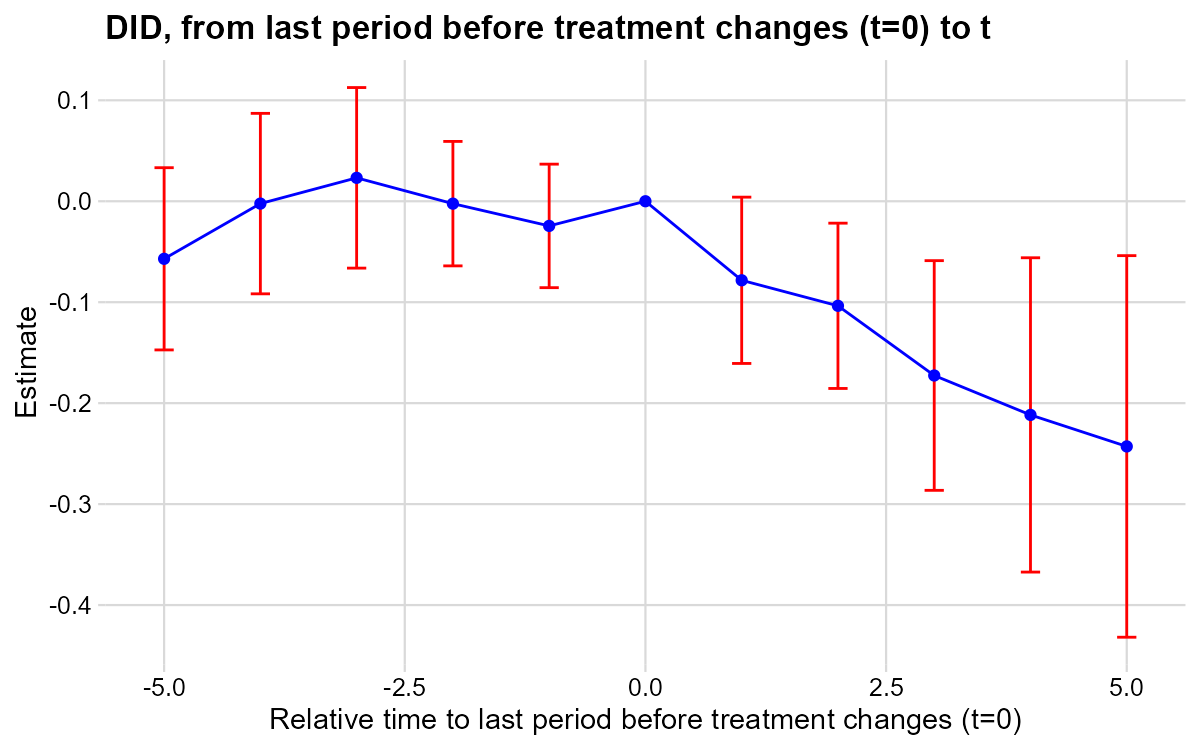
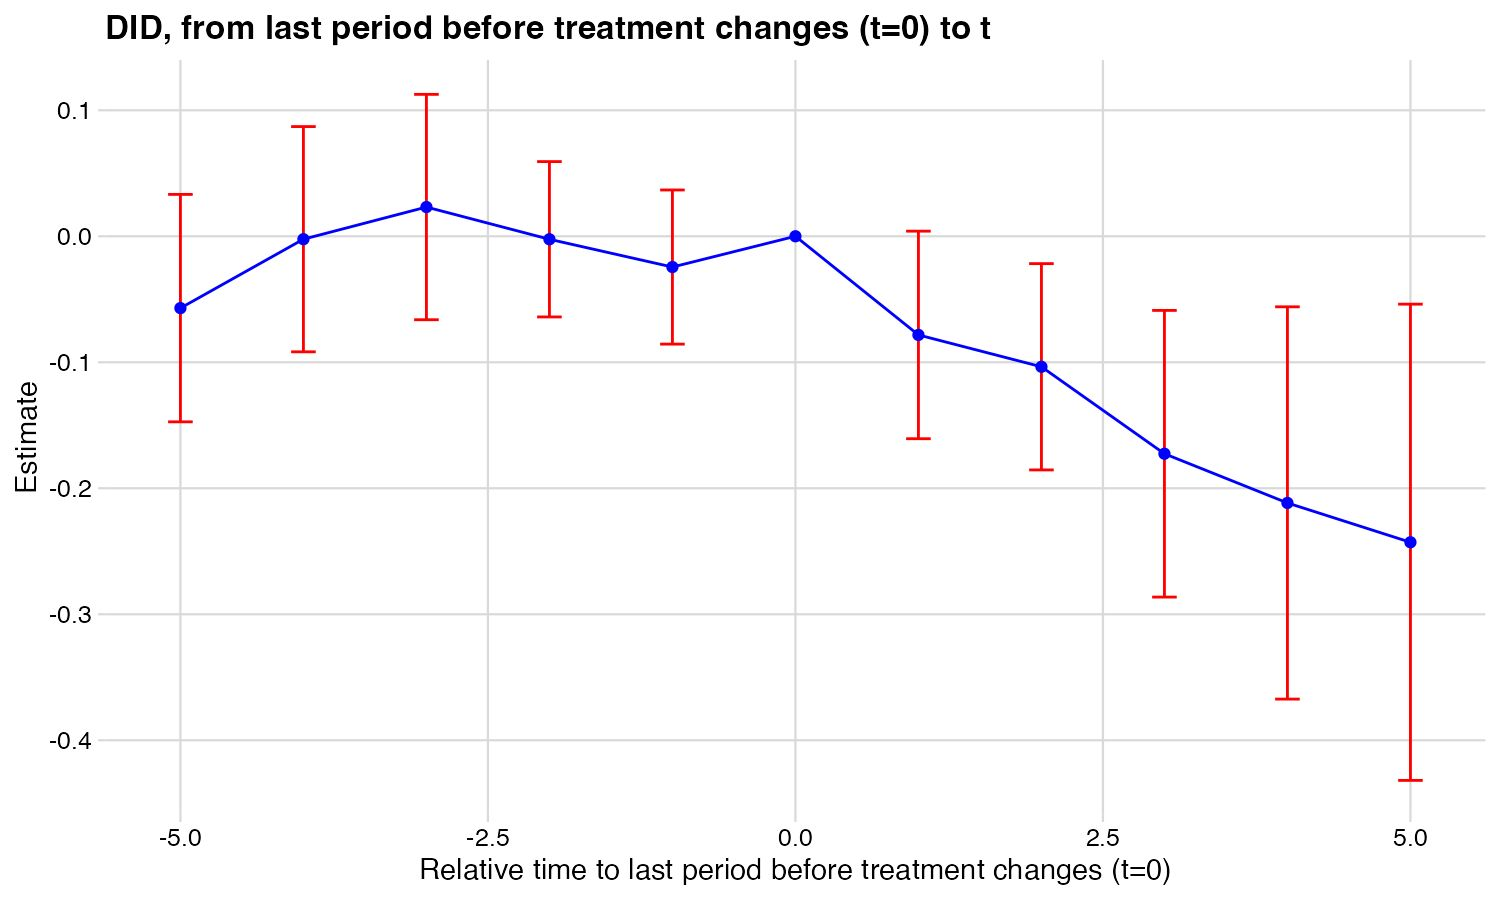
upadate did_book and did_book_dyn

diff --git a/did_applied_book/_book/chapters/ch10.html b/did_applied_book/_book/chapters/ch10.html
@@ -347,26 +347,32 @@ Test of joint nullity of the placebos : p-value = .72098785</code></pre>
 <pre><code>----------------------------------------------------------------------
        Estimation of treatment effects: Event-study effects
 ----------------------------------------------------------------------
-             Estimate SE      LB CI    UB CI   N   Switchers
-Effect_1     -0.09478 0.04318 -0.17940 -0.01015 234 28
-Effect_2     -0.13574 0.04795 -0.22971 -0.04176 209 28
-Effect_3     -0.21649 0.05893 -0.33199 -0.10099 187 28
-Effect_4     -0.23994 0.08079 -0.39828 -0.08160 176 28
-Effect_5     -0.28655 0.09958 -0.48173 -0.09137 138 21
+             Estimate SE      LB CI    UB CI    N   Switchers
+Effect_1     -0.07830 0.04202 -0.16067  0.00406 234 28
+Effect_2     -0.10358 0.04177 -0.18544 -0.02171 209 28
+Effect_3     -0.17260 0.05804 -0.28636 -0.05884 187 28
+Effect_4     -0.21166 0.07942 -0.36732 -0.05599 176 28
+Effect_5     -0.24287 0.09643 -0.43186 -0.05388 138 21
 
-Test of joint nullity of the effects  : p-value = 0.0135653
-Test of equality of the effects       : p-value = 0.1857077
+Test of joint nullity of the effects  : p-value = 0.0743
+Test of equality of the effects       : p-value = 0.3572
 
-  Av_tot_eff | -2.67436  0.77112  -4.18572  -1.16301  405  133
+  Av_tot_eff | -2.21745  0.72240  -3.63333  -0.80157  405  133
 Average number of time periods over which a treatment effect is accumulated: 2.8379
 
-Placebo_1    -0.03336 0.03225 -0.09658  0.02985 234 28
-Placebo_2    -0.01625 0.03383 -0.08254  0.05005 209 28
-Placebo_3     0.01252 0.04733 -0.08024  0.10529 187 28
-Placebo_4    -0.00646 0.04753 -0.09961  0.08669 176 28
-Placebo_5    -0.06084 0.04808 -0.15508  0.03340 106 18
+Placebo_1    -0.02443 0.03121 -0.08560  0.03675 234 28
+Placebo_2    -0.00238 0.03145 -0.06402  0.05926 209 28
+Placebo_3     0.02319 0.04563 -0.06624  0.11263 187 28
+Placebo_4    -0.00233 0.04560 -0.09171  0.08706 176 28
+Placebo_5    -0.05702 0.04605 -0.14727  0.03323 106 18
 
-Test of joint nullity of the placebos : p-value = 0.7209879</code></pre>
+Test of joint nullity of the placebos : p-value = 0.7775</code></pre>
+<div class="quarto-figure quarto-figure-center">
+<figure class="figure">
+<p><img src="../figures/ch09_fig3_medicaid_nonnorm_R.png" class="img-fluid figure-img"></p>
+<figcaption>Figure 10.1: Non-Normalized Effects of Prenatal Medicaid on LBW Rate</figcaption>
+</figure>
+</div>
 </div>
 <div id="tabset-2-3" class="tab-pane" role="tabpanel" aria-labelledby="tabset-2-3-tab">
 <div class="code-copy-outer-scaffold"><div class="sourceCode" id="cb11"><pre class="sourceCode python code-with-copy"><code class="sourceCode python"><span id="cb11-1"><a href="#cb11-1" aria-hidden="true" tabindex="-1"></a><span class="co"># pip install did-multiplegt-dyn pandas pyarrow</span></span>
@@ -420,7 +426,7 @@ Test of joint nullity of the placebos : p-value = 0.720988</code></pre>
 </div>
 </div>
 </div>
-<p><strong>Interpretation:</strong> A large increase in prenatal Medicaid eligibility significantly reduces the LBW rate. Effects grow with exposure length (from −0.09 to −0.29). Pre-trends are small and jointly insignificant (p = 0.72), supporting the parallel-trends assumption.</p>
+<p><strong>Interpretation:</strong> A large increase in prenatal Medicaid eligibility significantly reduces the LBW rate. Effects grow with exposure length (from −0.09 to −0.29 in Stata/Python). Pre-trends are small and jointly insignificant, supporting the parallel-trends assumption.</p>
 <hr>
 </section>
 <section id="t6-normalized-event-study-effects" class="level2" data-number="2.3">
@@ -456,9 +462,6 @@ Test of joint nullity of the placebos : p-value = 0.720988</code></pre>
 Test of joint nullity of the effects  : p-value = .01356528
 Test of equality of the effects       : p-value = .58100394
 
-----------------------------------------------------------------------
-               Weights on treatment lags
-----------------------------------------------------------------------
              |       ℓ=1        ℓ=2        ℓ=3        ℓ=4        ℓ=5
          k=0 |    1.0000     0.5000     0.3333     0.2500     0.2000
          k=1 |         .     0.5000     0.3333     0.2500     0.2000
@@ -501,9 +504,46 @@ Test of equality of the effects       : p-value = .58100394
 <span id="cb15-25"><a href="#cb15-25" aria-hidden="true" tabindex="-1"></a>)</span>
 <span id="cb15-26"><a href="#cb15-26" aria-hidden="true" tabindex="-1"></a><span class="fu">print</span>(res_t6)</span>
 <span id="cb15-27"><a href="#cb15-27" aria-hidden="true" tabindex="-1"></a>res_t6<span class="sc">$</span>plot</span></code></pre></div><button title="Copy to Clipboard" class="code-copy-button"><i class="bi"></i></button></div>
-<pre><code>[Output pending — to be updated after running ex2 R script]
-Test of joint nullity of the effects  : p-value = 0.0135653
-Test of equality of the effects       : p-value = 0.5810039</code></pre>
+<pre><code>----------------------------------------------------------------------
+       Estimation of treatment effects: Event-study effects
+----------------------------------------------------------------------
+             Estimate SE      LB CI    UB CI    N   Switchers
+Effect_1     -1.07310 0.57593 -2.20190  0.05570 234 28
+Effect_2     -0.70876 0.28582 -1.26895 -0.14857 209 28
+Effect_3     -0.78740 0.26479 -1.30637 -0.26842 187 28
+Effect_4     -0.72264 0.27117 -1.25413 -0.19115 176 28
+Effect_5     -0.95151 0.37778 -1.69194 -0.21108 138 21
+
+Test of joint nullity of the effects  : p-value = 0.0743
+Test of equality of the effects       : p-value = 0.7912
+
+  Av_tot_eff | -2.21745  0.72240  -3.63333  -0.80157  405  133
+Average number of time periods over which a treatment effect is accumulated: 2.8379
+
+Placebo_1    -0.33476 0.42774 -1.17311  0.50360 234 28
+Placebo_2    -0.01628 0.21522 -0.43810  0.40554 209 28
+Placebo_3     0.10581 0.20816 -0.30218  0.51379 187 28
+Placebo_4    -0.00794 0.15571 -0.31312  0.29724 176 28
+Placebo_5    -0.20873 0.16857 -0.53912  0.12165 106 18
+
+Test of joint nullity of the placebos : p-value = 0.7775
+
+------------------------------------------------------------
+             Weights on treatment lags
+------------------------------------------------------------
+      ℓ=1   ℓ=2   ℓ=3   ℓ=4   ℓ=5
+k=0   1.000 0.500 0.333 0.250 0.200
+k=1   NA    0.500 0.333 0.250 0.200
+k=2   NA    NA    0.333 0.250 0.200
+k=3   NA    NA    NA    0.250 0.200
+k=4   NA    NA    NA    NA    0.200
+Total 1.000 1.000 1.000 1.000 1.000</code></pre>
+<div class="quarto-figure quarto-figure-center">
+<figure class="figure">
+<p><img src="../figures/ch09_fig4_medicaid_norm_R.png" class="img-fluid figure-img"></p>
+<figcaption>Figure 10.2: Normalized Effects of Prenatal Medicaid on LBW Rate</figcaption>
+</figure>
+</div>
 </div>
 <div id="tabset-3-3" class="tab-pane" role="tabpanel" aria-labelledby="tabset-3-3-tab">
 <div class="code-copy-outer-scaffold"><div class="sourceCode" id="cb17"><pre class="sourceCode python code-with-copy"><code class="sourceCode python"><span id="cb17-1"><a href="#cb17-1" aria-hidden="true" tabindex="-1"></a><span class="co"># pip install did-multiplegt-dyn pandas pyarrow</span></span>
@@ -550,7 +590,7 @@ Test of equality of the effects       : p-value = 0.581004
 </div>
 </div>
 </div>
-<p><strong>Interpretation:</strong> A 1 percentage point increase in prenatal Medicaid eligibility reduces the LBW rate by ~1 percentage point. One cannot reject equality of effects (p = 0.58).</p>
+<p><strong>Interpretation:</strong> A 1 percentage point increase in prenatal Medicaid eligibility reduces the LBW rate by ~1 percentage point. One cannot reject equality of effects (p = 0.58 in Stata/Python, p = 0.79 in R).</p>
 
 
 </section>

diff --git a/did_book_final/docs/chapters/ch06.html b/did_book_final/docs/chapters/ch06.html
@@ -2208,6 +2208,9 @@ Bin at -9 and +16 differ due to endpoint aggregation.</code></pre>
 </section>
 <section id="figure-6.3-four-panel-comparison" class="level2" data-number="4.16">
 <h2 data-number="4.16" class="anchored" data-anchor-id="figure-6.3-four-panel-comparison"><span class="header-section-number">4.16</span> Figure 6.3: Four-Panel Comparison</h2>
+<blockquote class="blockquote">
+<p>This plot combines the event-study estimates from the four estimators computed in the previous sections (GQ4: TWFE, GQ6: Sun &amp; Abraham, GQ7: Callaway &amp; Sant’Anna, GQ9: Borusyak, Jaravel &amp; Spiess). You must run all previous sections before generating this figure.</p>
+</blockquote>
 <div class="tabset-margin-container"></div><div class="panel-tabset">
 <ul class="nav nav-tabs" role="tablist"><li class="nav-item" role="presentation"><a class="nav-link active" id="tabset-15-1-tab" data-bs-toggle="tab" data-bs-target="#tabset-15-1" role="tab" aria-controls="tabset-15-1" aria-selected="true" href="">Stata</a></li><li class="nav-item" role="presentation"><a class="nav-link" id="tabset-15-2-tab" data-bs-toggle="tab" data-bs-target="#tabset-15-2" role="tab" aria-controls="tabset-15-2" aria-selected="false" href="">R</a></li><li class="nav-item" role="presentation"><a class="nav-link" id="tabset-15-3-tab" data-bs-toggle="tab" data-bs-target="#tabset-15-3" role="tab" aria-controls="tabset-15-3" aria-selected="false" href="">Python</a></li></ul>
 <div class="tab-content">
@@ -2253,17 +2256,17 @@ Bin at -9 and +16 differ due to endpoint aggregation.</code></pre>
 </div>
 <div class="code-copy-outer-scaffold"><div class="sourceCode" id="cb70"><pre class="sourceCode python code-with-copy"><code class="sourceCode python"><span id="cb70-1"><a href="#cb70-1" aria-hidden="true" tabindex="-1"></a><span class="im">import</span> pandas <span class="im">as</span> pd</span>
 <span id="cb70-2"><a href="#cb70-2" aria-hidden="true" tabindex="-1"></a>df <span class="op">=</span> pd.read_parquet(<span class="st">"https://raw.githubusercontent.com/anzonyquispe/did_book/main/cc_xd_didtextbook_2025_9_30/Data</span><span class="sc">%20s</span><span class="st">ets/Wolfers%202006/wolfers2006_didtextbook.parquet"</span>)</span>
-<span id="cb70-3"><a href="#cb70-3" aria-hidden="true" tabindex="-1"></a>fig, axes <span class="op">=</span> plt.subplots(<span class="dv">2</span>, <span class="dv">2</span>, figsize<span class="op">=</span>(<span class="dv">14</span>, <span class="dv">10</span>))</span>
-<span id="cb70-4"><a href="#cb70-4" aria-hidden="true" tabindex="-1"></a>es_plot(axes[<span class="dv">0</span>, <span class="dv">0</span>], rt_fig62, co_fig62, lo_fig62, hi_fig62, <span class="st">"TWFE estimates"</span>, xlim<span class="op">=</span>(<span class="op">-</span><span class="fl">9.5</span>, <span class="fl">16.5</span>))</span>
-<span id="cb70-5"><a href="#cb70-5" aria-hidden="true" tabindex="-1"></a>es_plot(axes[<span class="dv">0</span>, <span class="dv">1</span>], sa_rt, sa_co, sa_lo, sa_hi, <span class="st">"Sun &amp; Abraham"</span>)</span>
-<span id="cb70-6"><a href="#cb70-6" aria-hidden="true" tabindex="-1"></a>es_plot(axes[<span class="dv">1</span>, <span class="dv">0</span>], cs_rt, cs_co, cs_lo, cs_hi, <span class="st">"Callaway &amp; Sant'Anna"</span>)</span>
-<span id="cb70-7"><a href="#cb70-7" aria-hidden="true" tabindex="-1"></a>es_plot(axes[<span class="dv">1</span>, <span class="dv">1</span>], bjs_rt, bjs_co, bjs_lo, bjs_hi, <span class="st">"Borusyak, Jaravel &amp; Spiess"</span>)</span>
+<span id="cb70-3"><a href="#cb70-3" aria-hidden="true" tabindex="-1"></a><span class="co"># Three-panel plot (BJS/did_imputation not available in Python)</span></span>
+<span id="cb70-4"><a href="#cb70-4" aria-hidden="true" tabindex="-1"></a>fig, axes <span class="op">=</span> plt.subplots(<span class="dv">1</span>, <span class="dv">3</span>, figsize<span class="op">=</span>(<span class="dv">18</span>, <span class="dv">5</span>))</span>
+<span id="cb70-5"><a href="#cb70-5" aria-hidden="true" tabindex="-1"></a>es_plot(axes[<span class="dv">0</span>], rt_fig62, co_fig62, lo_fig62, hi_fig62, <span class="st">"TWFE estimates"</span>, xlim<span class="op">=</span>(<span class="op">-</span><span class="fl">9.5</span>, <span class="fl">16.5</span>))</span>
+<span id="cb70-6"><a href="#cb70-6" aria-hidden="true" tabindex="-1"></a>es_plot(axes[<span class="dv">1</span>], sa_rt, sa_co, sa_lo, sa_hi, <span class="st">"Sun &amp; Abraham"</span>)</span>
+<span id="cb70-7"><a href="#cb70-7" aria-hidden="true" tabindex="-1"></a>es_plot(axes[<span class="dv">2</span>], cs_rt, cs_co, cs_lo, cs_hi, <span class="st">"Callaway &amp; Sant'Anna"</span>)</span>
 <span id="cb70-8"><a href="#cb70-8" aria-hidden="true" tabindex="-1"></a>plt.suptitle(<span class="st">"Effects of Unilateral Divorce Laws"</span>, fontsize<span class="op">=</span><span class="dv">14</span>)</span>
 <span id="cb70-9"><a href="#cb70-9" aria-hidden="true" tabindex="-1"></a>fig.text(<span class="fl">0.5</span>, <span class="fl">0.01</span>,</span>
-<span id="cb70-10"><a href="#cb70-10" aria-hidden="true" tabindex="-1"></a>    <span class="st">"95% CIs shown in red. Weighted by state population. SEs clustered at state level."</span>,</span>
+<span id="cb70-10"><a href="#cb70-10" aria-hidden="true" tabindex="-1"></a>    <span class="st">"95% CIs shown in red. Weighted by state population. SEs clustered at state level.</span><span class="ch">\n</span><span class="st">Note: BJS panel omitted (did_imputation not available in Python)."</span>,</span>
 <span id="cb70-11"><a href="#cb70-11" aria-hidden="true" tabindex="-1"></a>    ha<span class="op">=</span><span class="st">'center'</span>, fontsize<span class="op">=</span><span class="dv">9</span>, style<span class="op">=</span><span class="st">'italic'</span>)</span>
-<span id="cb70-12"><a href="#cb70-12" aria-hidden="true" tabindex="-1"></a>plt.tight_layout(rect<span class="op">=</span>[<span class="dv">0</span>, <span class="fl">0.03</span>, <span class="dv">1</span>, <span class="fl">0.95</span>])</span>
-<span id="cb70-13"><a href="#cb70-13" aria-hidden="true" tabindex="-1"></a>plt.savefig(FIGDIR <span class="op">/</span> <span class="st">"ch06_fig63_4panel_Python.png"</span>, dpi<span class="op">=</span><span class="dv">150</span>)</span></code></pre></div><button title="Copy to Clipboard" class="code-copy-button"><i class="bi"></i></button></div>
+<span id="cb70-12"><a href="#cb70-12" aria-hidden="true" tabindex="-1"></a>plt.tight_layout(rect<span class="op">=</span>[<span class="dv">0</span>, <span class="fl">0.05</span>, <span class="dv">1</span>, <span class="fl">0.95</span>])</span>
+<span id="cb70-13"><a href="#cb70-13" aria-hidden="true" tabindex="-1"></a>plt.savefig(FIGDIR <span class="op">/</span> <span class="st">"ch06_fig63_3panel_Python.png"</span>, dpi<span class="op">=</span><span class="dv">150</span>)</span></code></pre></div><button title="Copy to Clipboard" class="code-copy-button"><i class="bi"></i></button></div>
 </div>
 </div>
 </div>
